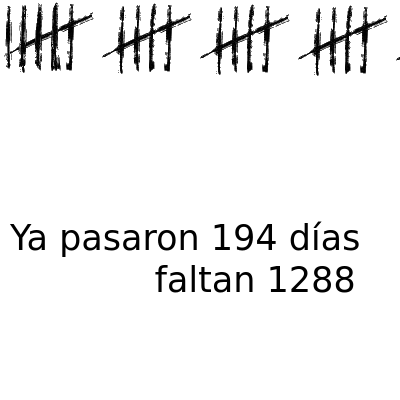
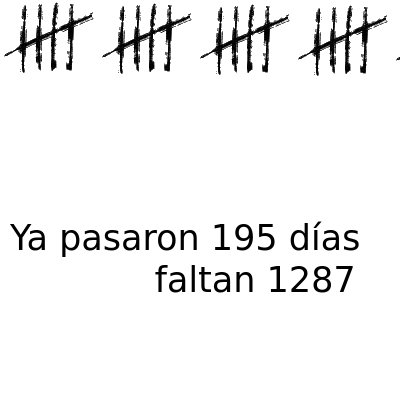
deploy: 28882f26f23b9f53dac6c4991168e610486d0e44

Changed region(s): [[0.0, 0.0, 0.15, 0.18], [0.84, 0.66, 0.9, 0.75], [0.63, 0.54, 0.69, 0.63]]

diff --git a/index.html b/index.html
@@ -3,19 +3,19 @@
   <head>
     <meta charset='utf-8'>
     <meta http-equiv='X-UA-Compatible' content='IE=edge'>
-    <title>Ya pasaron 194 días y faltan 1288</title>
-    <meta name="description" content="Ya pasaron 194 días y faltan 1288">
-    <meta itemprop="name" content="Ya pasaron 194 días y faltan 1288">
-    <meta itemprop="description" content="Ya pasaron 194 días y faltan 1288">
+    <title>Ya pasaron 195 días y faltan 1287</title>
+    <meta name="description" content="Ya pasaron 195 días y faltan 1287">
+    <meta itemprop="name" content="Ya pasaron 195 días y faltan 1287">
+    <meta itemprop="description" content="Ya pasaron 195 días y faltan 1287">
     <meta name="twitter:card" content="summary">
-    <meta name="twitter:title" content="Ya pasaron 194 días y faltan 1288">
-    <meta name="twitter:description" content="Ya pasaron 194 días y faltan 1288">
+    <meta name="twitter:title" content="Ya pasaron 195 días y faltan 1287">
+    <meta name="twitter:description" content="Ya pasaron 195 días y faltan 1287">
     <meta name="twitter:creator" content="@FloriusWasTaken">
     <meta name="twitter:image" content="https://pasaron.meme.ar/capture.png">
-    <meta property="og:title" content="Ya pasaron 194 días y faltan 1288">
-    <meta property="og:description" content="Ya pasaron 194 días y faltan 1288">
+    <meta property="og:title" content="Ya pasaron 195 días y faltan 1287">
+    <meta property="og:description" content="Ya pasaron 195 días y faltan 1287">
     <meta property="og:url" content="https://pasaron.meme.ar">
-    <meta property="og:site_name" content="Ya pasaron 194 días y faltan 1288">
+    <meta property="og:site_name" content="Ya pasaron 195 días y faltan 1287">
     <meta property="og:type" content="website">
     <meta property="og:image" content="https://pasaron.meme.ar/capture.png">
     <meta name="theme-color" content="#dc143c">
@@ -69,18 +69,16 @@
         padding: 0;
       }
     </style>
-    <title>Ya pasaron 194 días y faltan 1288</title>
+    <title>Ya pasaron 195 días y faltan 1287</title>
   </head>
   <body>
     <div id="main">
-      <img src="img/5.png"/><img src="img/5.png"/><img src="img/5.png"/><img src="img/5.png"/><img src="img/5.png"/><img src="img/5.png"/><img src="img/5.png"/><img src="img/5.png"/><img src="img/5.png"/><img src="img/5.png"/><img src="img/5.png"/><img src="img/5.png"/><img src="img/5.png"/><img src="img/5.png"/><img src="img/5.png"/><img src="img/5.png"/><img src="img/5.png"/><img src="img/5.png"/><img src="img/5.png"/><img src="img/5.png"/><img src="img/5.png"/><img src="img/5.png"/><img src="img/5.png"/><img src="img/5.png"/><img src="img/5.png"/><img src="img/5.png"/><img src="img/5.png"/><img src="img/5.png"/><img src="img/5.png"/><img src="img/5.png"/><img src="img/5.png"/><img src="img/5.png"/><img src="img/5.png"/><img src="img/5.png"/><img src="img/5.png"/><img src="img/5.png"/><img src="img/5.png"/><img src="img/5.png"/>
-      
-        <img src="img/4.png"/>
+      <img src="img/5.png"/><img src="img/5.png"/><img src="img/5.png"/><img src="img/5.png"/><img src="img/5.png"/><img src="img/5.png"/><img src="img/5.png"/><img src="img/5.png"/><img src="img/5.png"/><img src="img/5.png"/><img src="img/5.png"/><img src="img/5.png"/><img src="img/5.png"/><img src="img/5.png"/><img src="img/5.png"/><img src="img/5.png"/><img src="img/5.png"/><img src="img/5.png"/><img src="img/5.png"/><img src="img/5.png"/><img src="img/5.png"/><img src="img/5.png"/><img src="img/5.png"/><img src="img/5.png"/><img src="img/5.png"/><img src="img/5.png"/><img src="img/5.png"/><img src="img/5.png"/><img src="img/5.png"/><img src="img/5.png"/><img src="img/5.png"/><img src="img/5.png"/><img src="img/5.png"/><img src="img/5.png"/><img src="img/5.png"/><img src="img/5.png"/><img src="img/5.png"/><img src="img/5.png"/><img src="img/5.png"/>
       
     </div>
     <footer id="footer">
       <marquee id="marquee" class="is-vertical-align">
-        Ya pasaron 194 días y faltan 1288
+        Ya pasaron 195 días y faltan 1287
       </marquee>
       <ul>
         <li>
